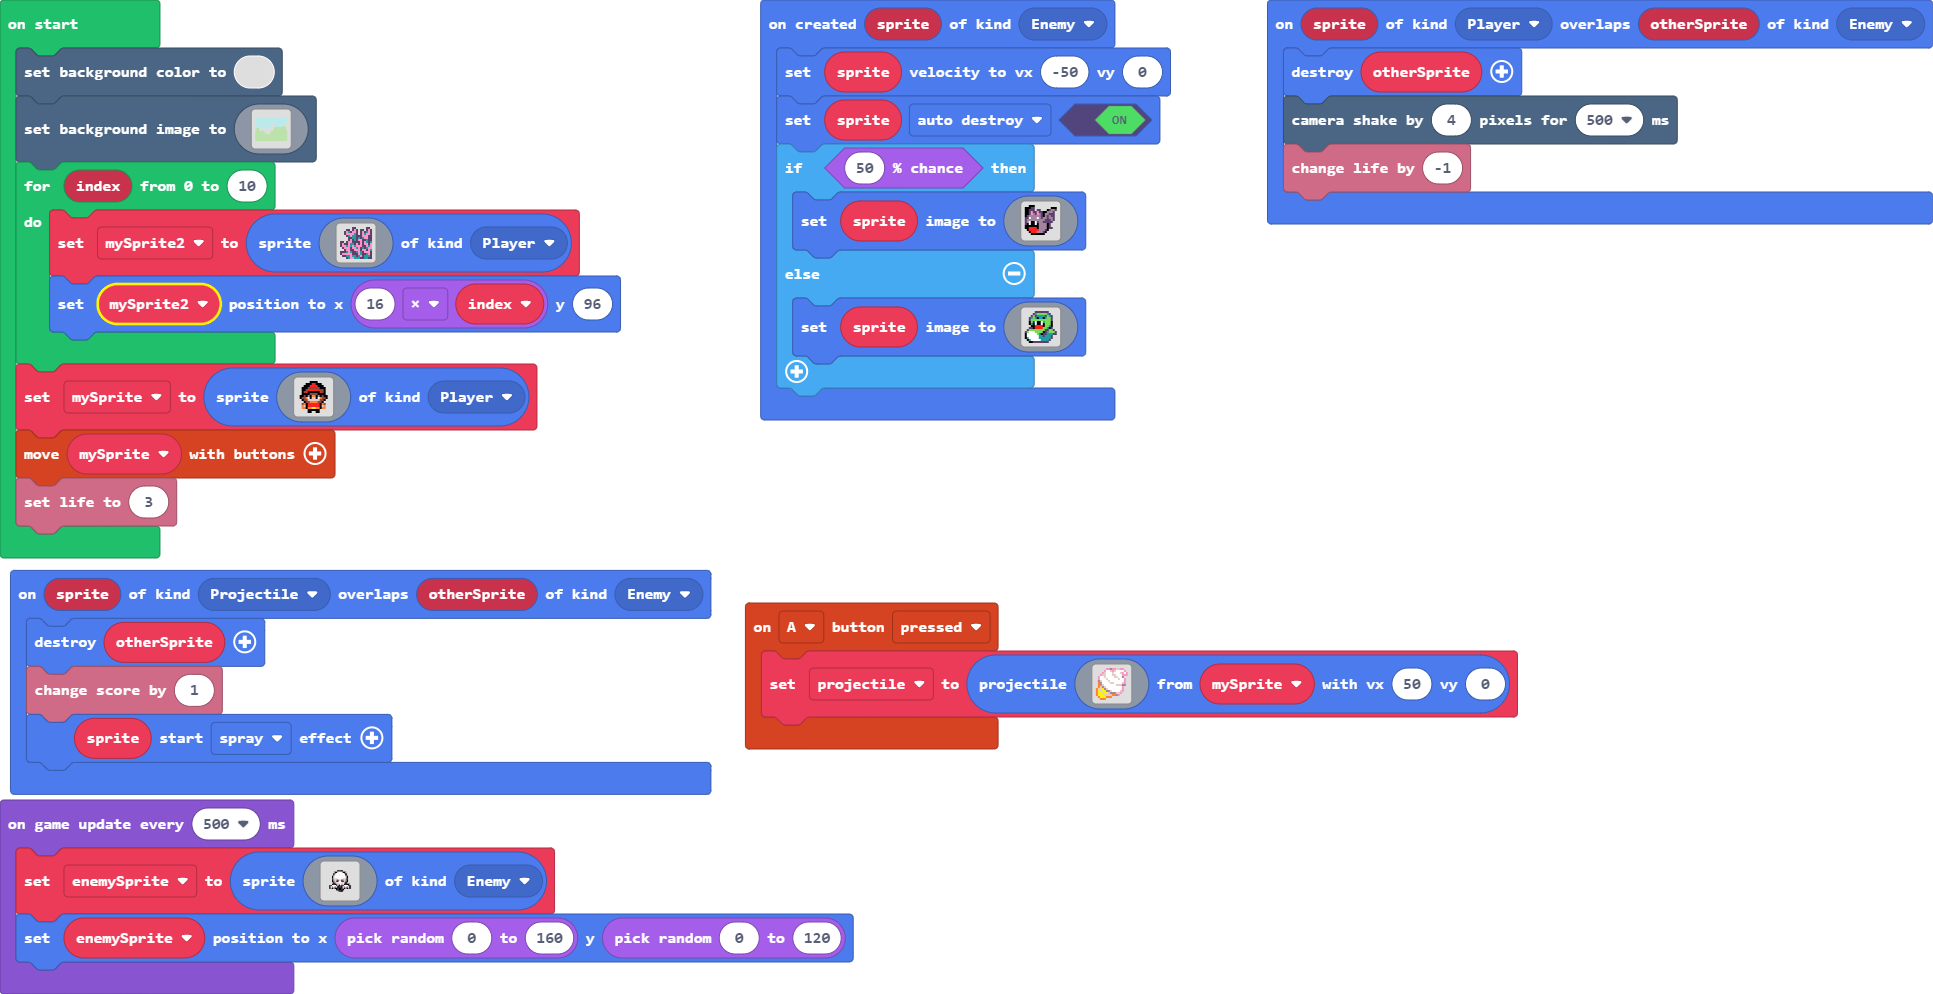
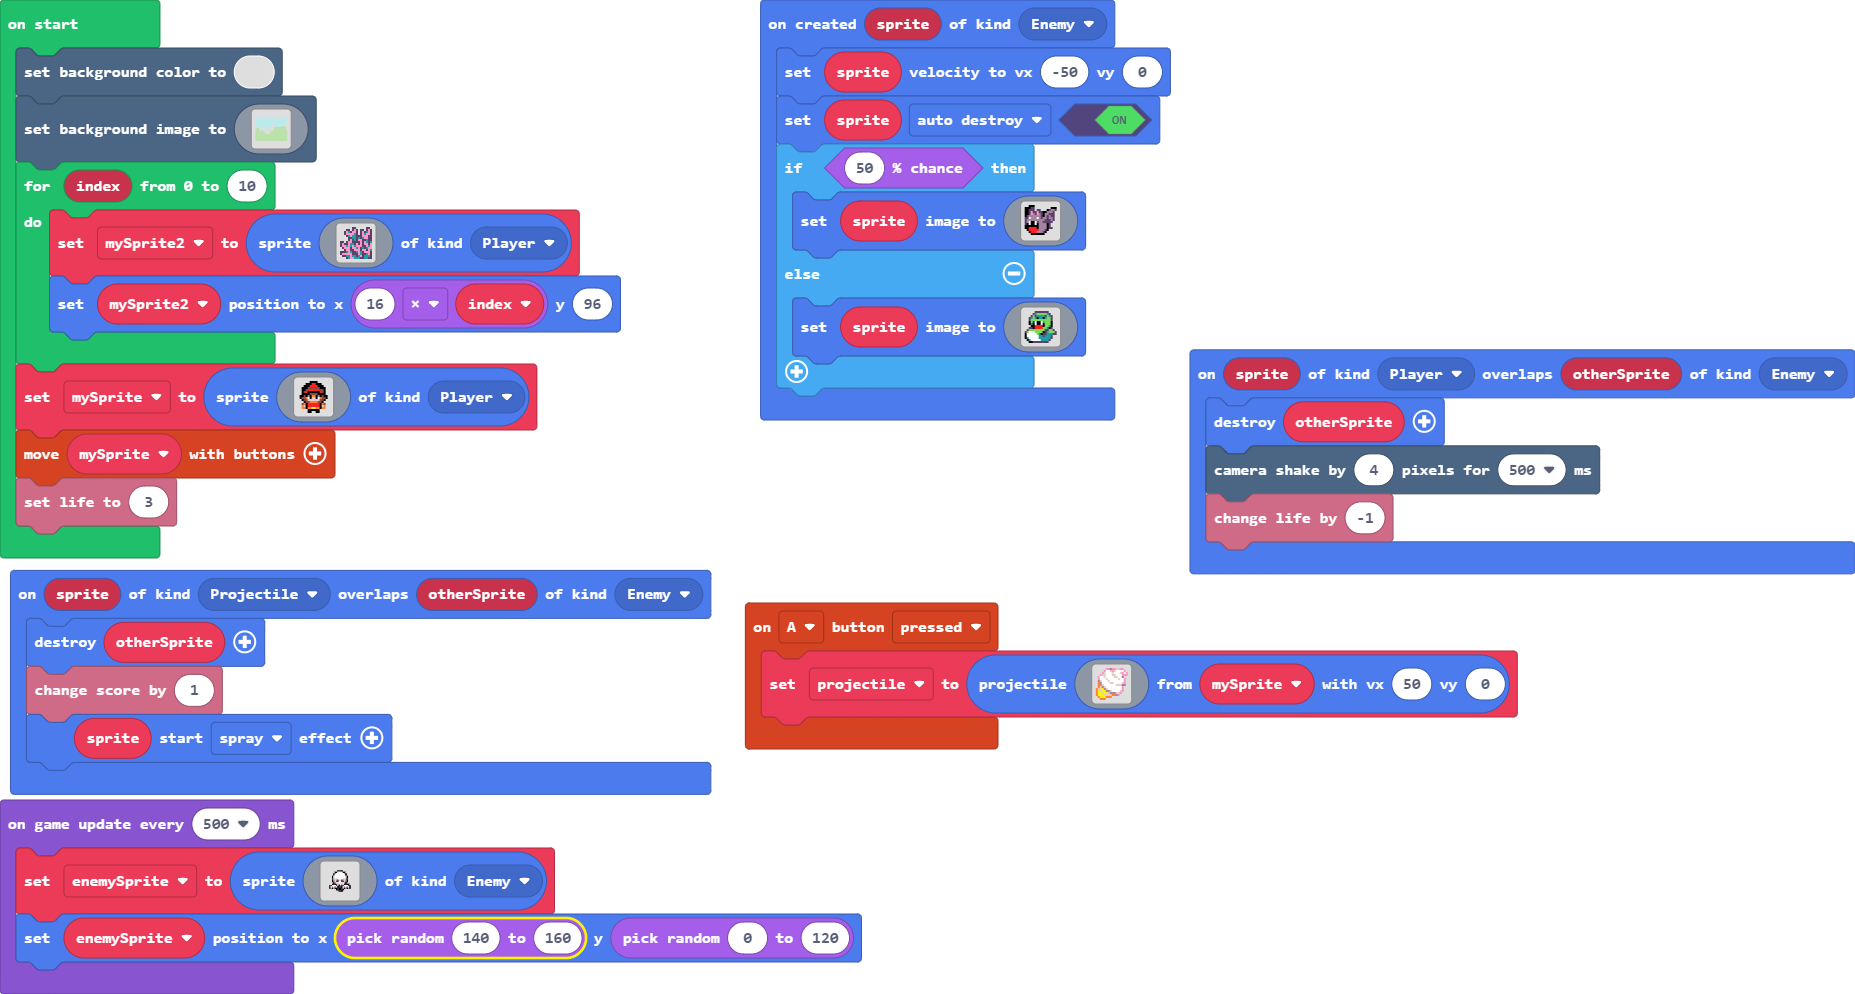
changed start position of enemy sprites

diff --git a/main.ts b/main.ts
@@ -266,5 +266,5 @@ game.onUpdateInterval(500, function () {
         . . . . . . . . . . . . . . . . . . . . . . . . 
         . . . . . . . . . . . . . . . . . . . . . . . . 
         `, SpriteKind.Enemy)
-    enemySprite.setPosition(randint(0, 160), randint(0, 120))
+    enemySprite.setPosition(randint(140, 160), randint(0, 120))
 })
